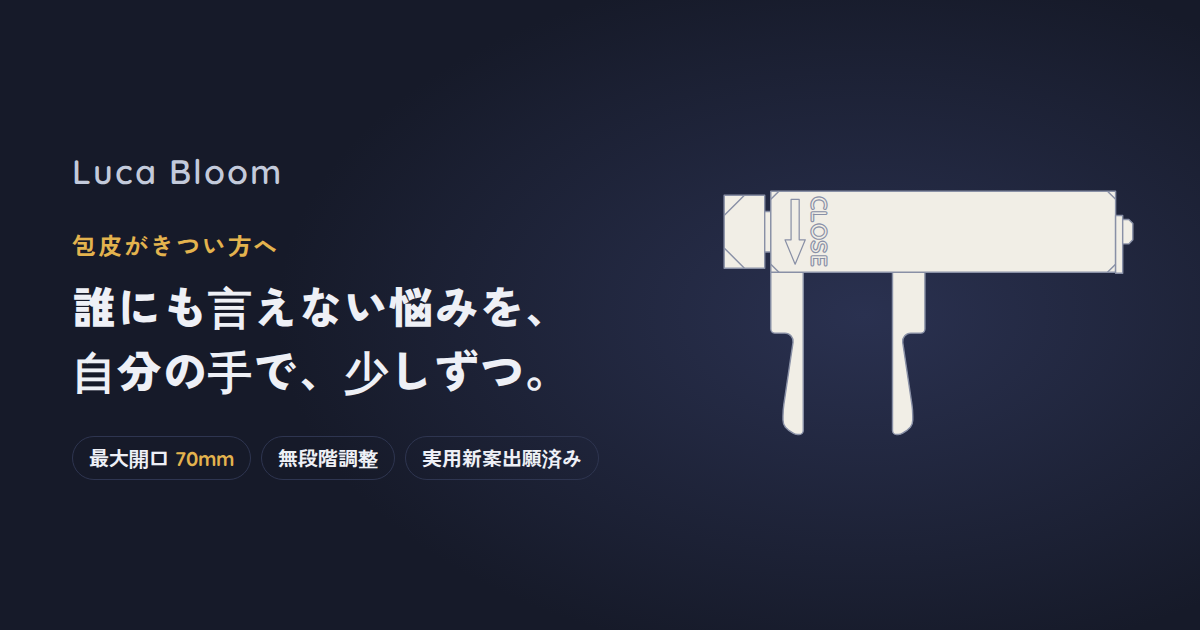
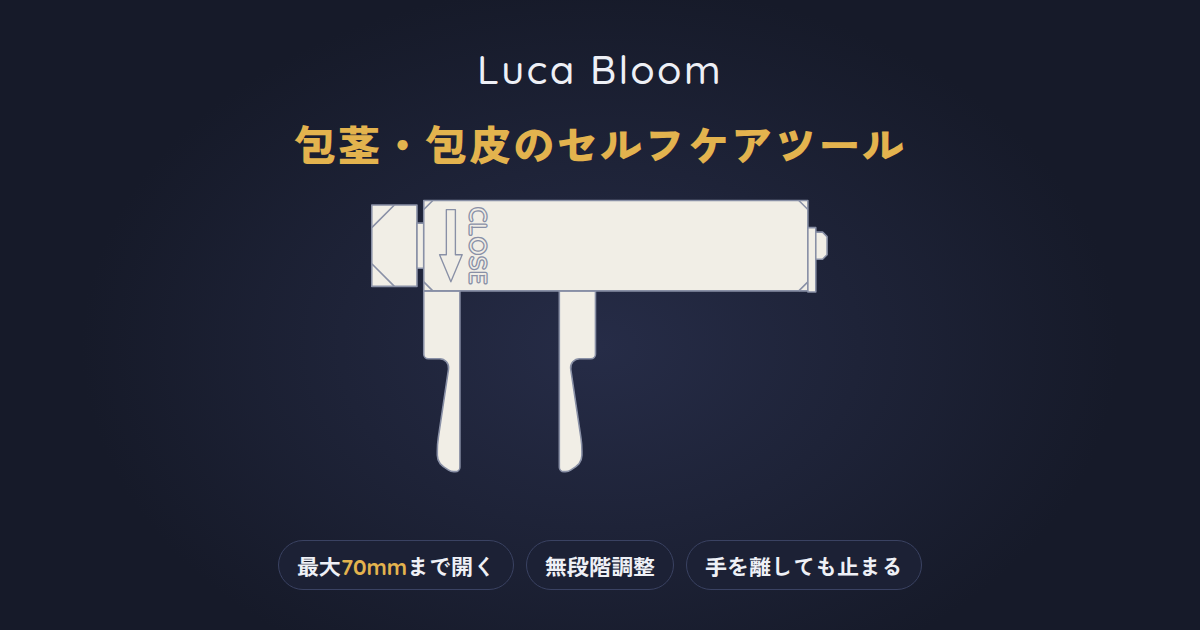
日本語LPの共有カード：タイトル・説明文に「包茎」を入れて商品だと分かる文に（真性包茎は使わない）、画像は切り取られても製品と用途が残る中央配置に。海外Threadsのハッシュタグは #phimosis の1つだけに
Claude-Session: https://claude.ai/code/session_016YenGTG3x62jvD6ZRQeA6d

diff --git a/index.html b/index.html
@@ -5,8 +5,8 @@
 <meta name="viewport" content="width=device-width, initial-scale=1, viewport-fit=cover">
 <meta http-equiv="Content-Security-Policy" content="default-src 'none'; script-src 'self'; style-src 'self' 'sha256-jr+99oMVcAtKtIUlC/3aKn5EhZTkRbJaXBN0lEQV9qo=' 'sha256-TT/tbT92qH6UzA/f+xUOgWA0x57Y7BPZlE8Y8ElzfiY=' 'sha256-JWj2RQr1NO5eDZ5FLv/Kt2A5GGIKrSQ+f02dKerJhxc=' 'sha256-OwlAI1fp4E0xW8lMXbaosUJDZ6pr4MSOqSxBs28LiP4='; img-src 'self'; font-src 'self'; connect-src 'self'; manifest-src 'self'; media-src 'none'; frame-src 'none'; worker-src 'none'; object-src 'none'; base-uri 'none'; form-action 'none'; upgrade-insecure-requests; require-trusted-types-for 'script'; trusted-types 'none'">
 <meta name="referrer" content="strict-origin-when-cross-origin">
-<title>包皮がきつい方へ｜包茎の種類と包茎リングとの違い｜Luca Bloom</title>
-<meta name="description" content="包皮がきつい方へ。Luca Bloom（ルカブルーム）は、包皮が狭い方や匂いが気になる方のためのセルフケアツール。ハンドルを回してアームの間隔を最大70mmまで無段階に調整でき、手を離してもその幅で止まるセルフロック構造。真性包茎・仮性包茎など包茎の種類や、包茎リングとの違いも紹介。実用新案出願済み。">
+<title>包茎ケアツール Luca Bloom（ルカブルーム）｜包皮がきつい方へ</title>
+<meta name="description" content="Luca Bloom（ルカブルーム）は、包茎・包皮がきつい方のためのセルフケアツール。ハンドルを回してアームの間隔を最大70mmまで無段階に調整でき、手を離してもその幅で止まるセルフロック構造。包茎の種類や、包茎リングとの違いも紹介。実用新案出願済み。">
 <link rel="canonical" href="https://luca-bloom.com/">
 <!-- hreflang:start -->
 <link rel="alternate" hreflang="ja" href="https://luca-bloom.com/">
@@ -25,19 +25,19 @@
 <meta property="og:type" content="product">
 <meta property="og:site_name" content="Luca Bloom">
 <meta property="og:locale" content="ja_JP">
-<meta property="og:title" content="包皮がきつい方へ｜包茎の種類と包茎リングとの違い｜Luca Bloom">
-<meta property="og:description" content="包皮がきつい方へ。ハンドルを回すだけで、アームの間隔を最大70mmまで無段階に調整。手を離してもその幅で止まるセルフケアツール。">
+<meta property="og:title" content="包茎ケアツール Luca Bloom（ルカブルーム）｜包皮がきつい方へ">
+<meta property="og:description" content="包茎・包皮がきつい方のためのセルフケアツール。ハンドルを回すとアームが最大70mmまで無段階に開き、手を離してもその幅で止まります。">
 <meta property="og:url" content="https://luca-bloom.com/">
 <meta property="og:image" content="https://luca-bloom.com/og.png">
 <meta property="og:image:width" content="1200">
 <meta property="og:image:height" content="630">
 <meta property="og:image:alt" content="Luca Bloom 本体の図">
 <meta name="twitter:card" content="summary_large_image">
-<meta name="twitter:title" content="包皮がきつい方へ｜包茎の種類と包茎リングとの違い｜Luca Bloom">
+<meta name="twitter:title" content="包茎ケアツール Luca Bloom（ルカブルーム）｜包皮がきつい方へ">
 <meta name="twitter:image" content="https://luca-bloom.com/og.png">
-<script type="application/ld+json">{"@context":"https://schema.org","@type":"Product","name":"Luca Bloom","alternateName":"ルカブルーム","description":"包皮がきつい方へ。Luca Bloom（ルカブルーム）は、包皮が狭い方や匂いが気になる方のためのセルフケアツール。ハンドルを回してアームの間隔を最大70mmまで無段階に調整でき、手を離してもその幅で止まるセルフロック構造。真性包茎・仮性包茎など包茎の種類や、包茎リングとの違いも紹介。実用新案出願済み。","brand":{"@type":"Brand","name":"Luca Bloom"},"image":["https://luca-bloom.com/og.png"],"material":"POM（ポリアセタール樹脂）","category":"メンズケア・包茎セルフケア用品","additionalProperty":[{"@type":"PropertyValue","name":"開き幅","value":"最大70mm"},{"@type":"PropertyValue","name":"くぼみ部の幅（全閉時）","value":"5mm"},{"@type":"PropertyValue","name":"本体サイズ","value":"85×20×20mm"}],"offers":{"@type":"Offer","price":"5800","priceCurrency":"JPY","availability":"https://schema.org/InStock","url":"https://www.amazon.co.jp/dp/B0HHXQ1X4C"},"countryOfOrigin":{"@type":"Country","name":"China"}}</script>
+<script type="application/ld+json">{"@context":"https://schema.org","@type":"Product","name":"Luca Bloom","alternateName":"ルカブルーム","description":"Luca Bloom（ルカブルーム）は、包茎・包皮がきつい方のためのセルフケアツール。ハンドルを回してアームの間隔を最大70mmまで無段階に調整でき、手を離してもその幅で止まるセルフロック構造。包茎の種類や、包茎リングとの違いも紹介。実用新案出願済み。","brand":{"@type":"Brand","name":"Luca Bloom"},"image":["https://luca-bloom.com/og.png"],"material":"POM（ポリアセタール樹脂）","category":"メンズケア・包茎セルフケア用品","additionalProperty":[{"@type":"PropertyValue","name":"開き幅","value":"最大70mm"},{"@type":"PropertyValue","name":"くぼみ部の幅（全閉時）","value":"5mm"},{"@type":"PropertyValue","name":"本体サイズ","value":"85×20×20mm"}],"offers":{"@type":"Offer","price":"5800","priceCurrency":"JPY","availability":"https://schema.org/InStock","url":"https://www.amazon.co.jp/dp/B0HHXQ1X4C"},"countryOfOrigin":{"@type":"Country","name":"China"}}</script>
 <script type="application/ld+json">{"@context":"https://schema.org","@type":"FAQPage","mainEntity":[{"@type":"Question","name":"どんな方に向けた器具ですか？","acceptedAnswer":{"@type":"Answer","text":"Luca Bloomは、包皮が狭い方や匂いが気になる方のためのセルフケアツール（雑貨）です。特定の症状の改善や治療を目的としたものではありません。痛み・腫れ・傷などがある場合や、治療中の方はご使用にならず、医師にご相談ください。"}},{"@type":"Question","name":"包茎リングとは何が違いますか？","acceptedAnswer":{"@type":"Answer","text":"包茎リングは、むいた包皮を根元側に留めておくための輪です。Luca Bloomは、ハンドルを回してアームの間隔を最大70mmまで無段階に調整する、リングをつけられない方のためのセルフケアツールです。"}},{"@type":"Question","name":"家族に中身を知られませんか？","acceptedAnswer":{"@type":"Answer","text":"箱にはブランド名「Luca Bloom」だけが入っており、製品名から梱包まで、ひと目で用途がわからないようにしています。"}},{"@type":"Question","name":"痛くないですか？","acceptedAnswer":{"@type":"Answer","text":"無段階で少しずつ開けるので、痛みを感じない幅で止められます。クリームやオイルで保湿・潤滑してからお使いください。痛みや異変があれば、すぐに使用を中止してください。"}},{"@type":"Question","name":"使用時間に上限はありますか？","acceptedAnswer":{"@type":"Answer","text":"安全のため、連続使用の上限を設けています。1回30分以内、24時間の合計1時間以内でお使いください。就寝中の使用はできません。"}},{"@type":"Question","name":"アームの先端が少し開いています。","acceptedAnswer":{"@type":"Answer","text":"個体差により、アームの先端がわずかに開いている場合があります。製品の仕様ですので、ご了承ください。"}},{"@type":"Question","name":"医療機器ですか？","acceptedAnswer":{"@type":"Answer","text":"本製品は雑貨であり、医療機器ではありません。治療に関する効果をうたうものではありません。"}}]}</script>
-<script type="application/ld+json">{"@context":"https://schema.org","@type":"WebPage","name":"包皮がきつい方へ｜包茎の種類と包茎リングとの違い｜Luca Bloom","url":"https://luca-bloom.com/","inLanguage":"ja","description":"包皮がきつい方へ。Luca Bloom（ルカブルーム）は、包皮が狭い方や匂いが気になる方のためのセルフケアツール。ハンドルを回してアームの間隔を最大70mmまで無段階に調整でき、手を離してもその幅で止まるセルフロック構造。真性包茎・仮性包茎など包茎の種類や、包茎リングとの違いも紹介。実用新案出願済み。","keywords":"包皮がきつい,包茎の種類,真性包茎,仮性包茎,包茎リング,仮性包茎リング,セルフケアツール,Luca Bloom"}</script>
+<script type="application/ld+json">{"@context":"https://schema.org","@type":"WebPage","name":"包茎ケアツール Luca Bloom（ルカブルーム）｜包皮がきつい方へ","url":"https://luca-bloom.com/","inLanguage":"ja","description":"Luca Bloom（ルカブルーム）は、包茎・包皮がきつい方のためのセルフケアツール。ハンドルを回してアームの間隔を最大70mmまで無段階に調整でき、手を離してもその幅で止まるセルフロック構造。包茎の種類や、包茎リングとの違いも紹介。実用新案出願済み。","keywords":"包皮がきつい,包茎の種類,真性包茎,仮性包茎,包茎リング,仮性包茎リング,セルフケアツール,Luca Bloom"}</script>
 <script type="application/ld+json">{"@context":"https://schema.org","@type":"Organization","name":"Luca Bloom","url":"https://luca-bloom.com/","logo":"https://luca-bloom.com/apple-touch-icon.png","email":"lucabloom65@gmail.com","address":{"@type":"PostalAddress","postalCode":"106-0032","addressRegion":"東京都","addressLocality":"港区","streetAddress":"六本木2-1-19 S-Building 3F","addressCountry":"JP"}}</script>
 <script type="application/ld+json">{"@context":"https://schema.org","@type":"WebSite","name":"Luca Bloom","url":"https://luca-bloom.com/","inLanguage":"ja","publisher":{"@type":"Organization","name":"Luca Bloom","url":"https://luca-bloom.com/"}}</script>
 <!-- fonts:start （tools/build-fonts.mjs が生成。手で編集しない） -->

diff --git a/sns/en/prompts/system.md b/sns/en/prompts/system.md
@@ -51,9 +51,9 @@ You write social media posts for **Luca Bloom**, a small Japanese brand that mak
 |---|---|---|---|
 | Instagram (feed, 1080×1350 image) | 60–150 words, line breaks between short paragraphs | Write “Link in bio.” (links are not clickable) | 3–5 at the end |
 | X | ≤ 280 characters including the link (a link counts as 23 characters) | https://luca-bloom.com/en/ | 0–2 |
-| Threads | ≤ 500 characters | https://luca-bloom.com/en/ | 0–2 |
+| Threads | ≤ 500 characters | https://luca-bloom.com/en/ | exactly 1: #phimosis, on its own last line |
 
-Allowed hashtags: #LucaBloom #MensSelfCare #MensGrooming #PersonalCare #IntimateCare #SelfCare #MensCare. Never use condition hashtags.
+Allowed hashtags (Instagram, X): #LucaBloom #MensSelfCare #MensGrooming #PersonalCare #IntimateCare #SelfCare #MensCare. Threads allows only one topic tag, so every Threads post ends with #phimosis and nothing else; never write the condition name in the post text itself.
 
 ## Before you answer, check
 
@@ -103,6 +103,6 @@ If a request cannot be met within these rules, say which rule blocks it and sugg
 
 **文体**：落ち着いていて、私的で、温かく、平易。短い文で書く。スラングと絵文字は使わない（箇条書きの ▷ だけ可）。感嘆符も使わない。読み手は「you」、ブランドは「we」。
 
-**媒体ごとの形式**：Instagram は60〜150語、リンクは押せないため「Link in bio.（プロフィールのリンクから）」と書き、ハッシュタグは3〜5個。X は280文字以内（リンクは23文字として数える）。Threads は500文字以内。X と Threads のハッシュタグは0〜2個。使ってよいハッシュタグは上の英語版の7つだけで、病名のハッシュタグは使わない。
+**媒体ごとの形式**：Instagram は60〜150語、リンクは押せないため「Link in bio.（プロフィールのリンクから）」と書き、ハッシュタグは3〜5個。X は280文字以内（リンクは23文字として数える）。Threads は500文字以内。X のハッシュタグは0〜2個で、使ってよいのは上の英語版の7つだけ。Threads はトピックのタグを1つしか付けられないため、最後の行に #phimosis（包茎）だけを付ける。本文には病名を書かない。
 
 **回答前の確認**：事実はすべて上の製品情報から取っているか。禁止語・禁止の話題がないか。文字数が媒体の上限内か。人前で読んでも問題ない落ち着いた内容か。ルールの範囲で書けない依頼には、どのルールに当たるかを伝え、ルールに沿った代わりの案を出す。

diff --git a/sns/en/prompts/caption.md b/sns/en/prompts/caption.md
@@ -19,7 +19,7 @@ Reply with **JSON only**, in exactly this shape:
   "id": "{{id}}",
   "instagram": "60–150 words, short paragraphs separated by blank lines, ending with “Link in bio.” and then 3–5 allowed hashtags",
   "x": "≤ 280 characters including https://luca-bloom.com/en/ (counts as 23)",
-  "threads": "≤ 500 characters including https://luca-bloom.com/en/",
+  "threads": "≤ 500 characters including https://luca-bloom.com/en/, ending with one line: #phimosis",
   "alt": "Image description for screen readers, ≤ 200 characters",
   "ja": {
     "instagram": "Japanese translation of the Instagram caption",
@@ -48,7 +48,7 @@ Do not add anything outside the JSON.
 > 返答は**JSONだけ**で、上の形にしてください。
 > - instagram：60〜150語。短い段落を空行で区切り、最後に「Link in bio.」と、使ってよいハッシュタグを3〜5個
 > - x：リンク https://luca-bloom.com/en/（23文字として数える）を含めて280文字以内
-> - threads：リンクを含めて500文字以内
+> - threads：リンクを含めて500文字以内。最後の行に #phimosis（包茎）だけを付ける
 > - alt：画面読み上げ用の画像の説明（代替テキスト）、200文字以内
 > - ja：各投稿文の日本語訳（内容確認用）
 > - check：禁止語・医療的な効果・価格・比較を使っていないことの確認を1行で
